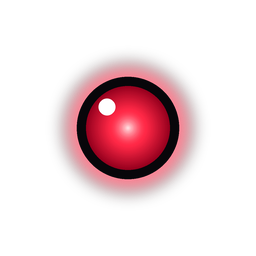
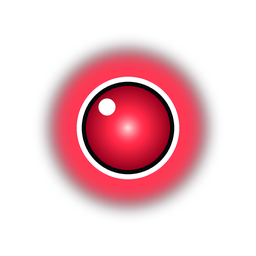
feat: brighter enemy shots, meteors fade while a boss is alive, mini-boss HP -25%, final boss HP +25%
Claude-Session: https://claude.ai/code/session_01LtYADxbd84PVKV1bvjrnNH

Changed region(s): [[0.1562, 0.1562, 0.8438, 0.8438]]

diff --git a/tools/art/make_enemy_shots.py b/tools/art/make_enemy_shots.py
@@ -33,10 +33,13 @@ def draw_ball(edge: tuple, body: tuple, core: tuple) -> Image.Image:
     outer = big * BALL / 2
     # Soft halo outside the outline: the shot also reads on a busy floor.
     halo = Image.new("RGBA", (big, big), (0, 0, 0, 0))
-    ImageDraw.Draw(halo).ellipse((center - outer * 1.25, center - outer * 1.25, center + outer * 1.25, center + outer * 1.25),
-        fill=body + (150,))
+    ImageDraw.Draw(halo).ellipse((center - outer * 1.5, center - outer * 1.5, center + outer * 1.5, center + outer * 1.5),
+        fill=body + (235,))
     image.alpha_composite(halo.filter(ImageFilter.GaussianBlur(big * 0.03)))
-    draw.ellipse((center - outer, center - outer, center + outer, center + outer), fill=(8, 6, 10, 255))
+    # Pale rim outside the dark outline: no player shot has one, so enemy shots stand apart at a glance.
+    draw.ellipse((center - outer, center - outer, center + outer, center + outer), fill=(255, 255, 255, 255))
+    dark = outer * 0.9
+    draw.ellipse((center - dark, center - dark, center + dark, center + dark), fill=(8, 6, 10, 255))
     inner = outer * 0.82
     steps = 40
     for k in range(steps):  # radial gradient: dark edge -> vivid body -> white core
